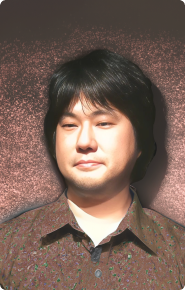
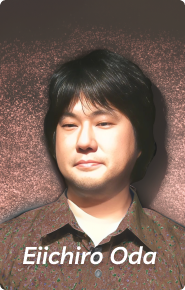
feat: pos 5

Changed region(s): [[0.1081, 0.8379, 0.5676, 0.931], [0.5946, 0.8379, 0.8649, 0.931]]

diff --git a/src/components/templates/Pos5/Pos5.tsx b/src/components/templates/Pos5/Pos5.tsx
@@ -1,8 +1,18 @@
+import { roleModelLists } from '@/components/constants/rolemodel';
+import { Icons } from '@/components/icons/icons';
 import IntroPosInstallation from '@/components/molecules/IntroPosInstallation/IntroPosInstallation';
-import { useState } from 'react';
+import { Button } from '@/components/ui/button';
+import { ExhibitionContext } from '@/contexts/ExhibitionContext/ExhibitionContext';
+import { cn } from '@/lib/utils';
+import Image from 'next/image';
+import { useContext, useState } from 'react';
 
 const Pos5 = () => {
+    const { setPos, setSelectedRoleModelState } =
+        useContext(ExhibitionContext)!;
+
     const [stepper, setStepper] = useState<number>(0);
+    const [selected, setSelected] = useState<number | null>(null);
 
     return (
         <>
@@ -25,14 +35,45 @@ const Pos5 = () => {
                         <p className='text-center font-lucette text-2xl font-bold italic md:text-3xl'>
                             Choose a role model that reflects you!
                         </p>
-                        <div className='grid grid-cols-4 items-start gap-4 md:grid-cols-3'>
-                            <p>work in progress</p>
-                            <p>work in progress</p>
-                            <p>work in progress</p>
-                            <p>work in progress</p>
-                            <p>work in progress</p>
-                            <p>work in progress</p>
+                        <div className='grid grid-cols-3 items-center justify-center gap-4 md:grid-cols-4'>
+                            {roleModelLists.map((data, index) => {
+                                return (
+                                    <div key={data.src}>
+                                        <Image
+                                            src={data.src}
+                                            alt={data.name}
+                                            width={0}
+                                            height={0}
+                                            quality={100}
+                                            sizes='100%'
+                                            className={cn(
+                                                'h-auto w-[150px] rounded-[8px] border-[4px] hover:cursor-pointer',
+                                                selected === index &&
+                                                    'border-blue-500'
+                                            )}
+                                            onClick={() =>
+                                                setSelected(() => index)
+                                            }
+                                        />
+                                    </div>
+                                );
+                            })}
                         </div>
+                        <Button
+                            className='flex rounded-[20px] bg-[#727902] font-lucette hover:bg-[#727902]/80'
+                            disabled={selected === null}
+                            onClick={() => {
+                                if (selected !== null) {
+                                    setPos(6);
+                                    setSelectedRoleModelState(
+                                        roleModelLists[selected]
+                                    );
+                                }
+                            }}
+                        >
+                            <p className='text-lg'>Next</p>
+                            <Icons.rightArrow />
+                        </Button>
                     </div>
                 </>
             ) : null}

diff --git a/src/contexts/ExhibitionContext/ExhibitionContext.tsx b/src/contexts/ExhibitionContext/ExhibitionContext.tsx
@@ -9,7 +9,8 @@ import type {
     ParticipantDataType,
     ExhibitionContextType,
     QuestionType,
-    ParticipantSkillType
+    ParticipantSkillType,
+    RoleModelType
 } from '@/types/exhibition';
 import { createContext, useState } from 'react';
 
@@ -48,6 +49,20 @@ export const ExhibitionContextProvider = ({
 
     const [participantSkill, setParticipantSkill] =
         useState<ParticipantSkillType>(skillConstants);
+
+    const [selectedRoleModel, setSelectedRoleModel] = useState<RoleModelType>({
+        src: '',
+        name: '',
+        value: 'communicative'
+    });
+
+    const setSelectedRoleModelState = (newSelectedRoleModel: RoleModelType) => {
+        setSelectedRoleModel(() => newSelectedRoleModel);
+        localStorage.setItem(
+            'selectedRoleModel',
+            JSON.stringify(newSelectedRoleModel)
+        );
+    };
 
     const setParticipantSkillState = (
         newParticipantSkill: ParticipantSkillType
@@ -125,6 +140,14 @@ export const ExhibitionContextProvider = ({
 
             if (questionPos4Data) setQuestionPos4(() => questionPos4Data);
 
+            const selectedRoleModelData = JSON.parse(
+                localStorage.getItem('selectedRoleModel')!
+            )!;
+
+            if (selectedRoleModelData) {
+                setSelectedRoleModel(() => selectedRoleModelData);
+            }
+
             const participantSkillData = JSON.parse(
                 localStorage.getItem('participantSkill')!
             );
@@ -135,6 +158,31 @@ export const ExhibitionContextProvider = ({
             console.log(e);
             setPosState(0);
         }
+    };
+
+    const populateParticipantSkillData = () => {
+        const tempData = { ...participantSkill };
+
+        questionPos1.forEach((data) => {
+            tempData[data.choice[data.answer!].value].value++;
+        });
+
+        questionPos4.forEach((data) => {
+            tempData[data.choice[data.answer!].value].value++;
+        });
+
+        tempData[selectedRoleModel.value].value++;
+
+        setParticipantSkillState(tempData);
+
+        // const keysSorted = Object.keys(tempData).sort((a, b) => {
+        //     return (
+        //         tempData[b as keyof ParticipantSkillType].value -
+        //         tempData[a as keyof ParticipantSkillType].value
+        //     );
+        // });
+
+        // return keysSorted;
     };
 
     const initiate = () => {
@@ -170,7 +218,10 @@ export const ExhibitionContextProvider = ({
         questionPos4,
         setQuestionPos4State,
         correctCountPos2,
-        setCorrectCountPos2State
+        setCorrectCountPos2State,
+        selectedRoleModel,
+        setSelectedRoleModelState,
+        populateParticipantSkillData
     };
 
     return (

diff --git a/src/components/constants/rolemodel.ts b/src/components/constants/rolemodel.ts
@@ -1,0 +1,25 @@
+import type { RoleModelType } from '@/types/exhibition';
+
+export const roleModelLists: RoleModelType[] = [
+    { src: '/pos5/1.png', name: 'Eiichiro Oda', value: 'creativeThinking' },
+    { src: '/pos5/2.png', name: 'Bill Gates', value: 'empathy' },
+    { src: '/pos5/3.png', name: 'Elon Musk', value: 'visionary' },
+    { src: '/pos5/4.png', name: 'Steve Jobs', value: 'innovative' },
+    { src: '/pos5/5.png', name: 'Cristiano Ronaldo', value: 'riskTaking' },
+    { src: '/pos5/6.png', name: 'Uzumaki Naruto', value: 'persistence' },
+    { src: '/pos5/7.png', name: 'Jack Ma', value: 'resilience' },
+    { src: '/pos5/8.png', name: 'Thomas Shelby', value: 'leadership' },
+    { src: '/pos5/9.png', name: 'Raffi Ahmad', value: 'teamwork' },
+    {
+        src: '/pos5/10.png',
+        name: 'Nadiem Makarim',
+        value: 'complexProblemSolver'
+    },
+    { src: '/pos5/11.png', name: 'Najwa Shihab', value: 'criticalThinking' },
+    { src: '/pos5/12.png', name: 'Jerome Polin', value: 'communicative' },
+    {
+        src: '/pos5/13.png',
+        name: 'Maudy Ayunda',
+        value: 'planningAndOrganizing'
+    }
+];

diff --git a/src/types/exhibition.d.ts b/src/types/exhibition.d.ts
@@ -18,6 +18,9 @@ export interface ExhibitionContextType {
     setQuestionPos4State: (_arg: QuestionType[]) => void;
     correctCountPos2: number;
     setCorrectCountPos2State: (_arg: number) => void;
+    selectedRoleModel: RoleModelType;
+    setSelectedRoleModelState: (_arg: RoleModelType) => void;
+    populateParticipantSkillData: () => void;
 }
 
 export interface ParticipantDataType {
@@ -59,6 +62,25 @@ export interface QuestionType {
 
 export interface AnswerType {
     answer: string;
+    value:
+        | 'empathy'
+        | 'visionary'
+        | 'criticalThinking'
+        | 'creativeThinking'
+        | 'innovative'
+        | 'complexProblemSolver'
+        | 'riskTaking'
+        | 'persistence'
+        | 'resilience'
+        | 'leadership'
+        | 'planningAndOrganizing'
+        | 'communicative'
+        | 'teamwork';
+}
+
+export interface RoleModelType {
+    src: string;
+    name: string;
     value:
         | 'empathy'
         | 'visionary'

diff --git a/src/components/templates/Exhibition/Exhibition.tsx b/src/components/templates/Exhibition/Exhibition.tsx
@@ -6,6 +6,8 @@ import Pos2 from '../Pos2/Pos2';
 import Pos3 from '../Pos3/Pos3';
 import Pos4 from '../Pos4/Pos4';
 import Pos5 from '../Pos5/Pos5';
+import Pos6 from '../Pos6/Pos6';
+import Pos7 from '../Pos7/Pos7';
 import ModalRestartExhibition from '@/components/atoms/ModalRestartExhibition/ModalRestartExhibition';
 import FooterExhibition from '@/components/molecules/FooterExhibition/FooterExhibition';
 import { ExhibitionContext } from '@/contexts/ExhibitionContext/ExhibitionContext';
@@ -37,6 +39,8 @@ const ExhibitionPage = () => {
                 {pos === 3 ? <Pos3 /> : null}
                 {pos === 4 ? <Pos4 /> : null}
                 {pos === 5 ? <Pos5 /> : null}
+                {pos === 6 ? <Pos6 /> : null}
+                {pos === 7 ? <Pos7 /> : null}
 
                 <FooterExhibition />
             </div>

diff --git a/src/components/molecules/FooterExhibition/FooterExhibition.tsx b/src/components/molecules/FooterExhibition/FooterExhibition.tsx
@@ -10,7 +10,7 @@ const photoList = [
 const FooterExhibition = () => {
     return (
         <>
-            <div className='mb-2 mt-6 flex flex-row items-center gap-4'>
+            <div className='mb-2 mt-8 flex flex-row items-center gap-4'>
                 {photoList.map((data, index) => {
                     return (
                         <Image
